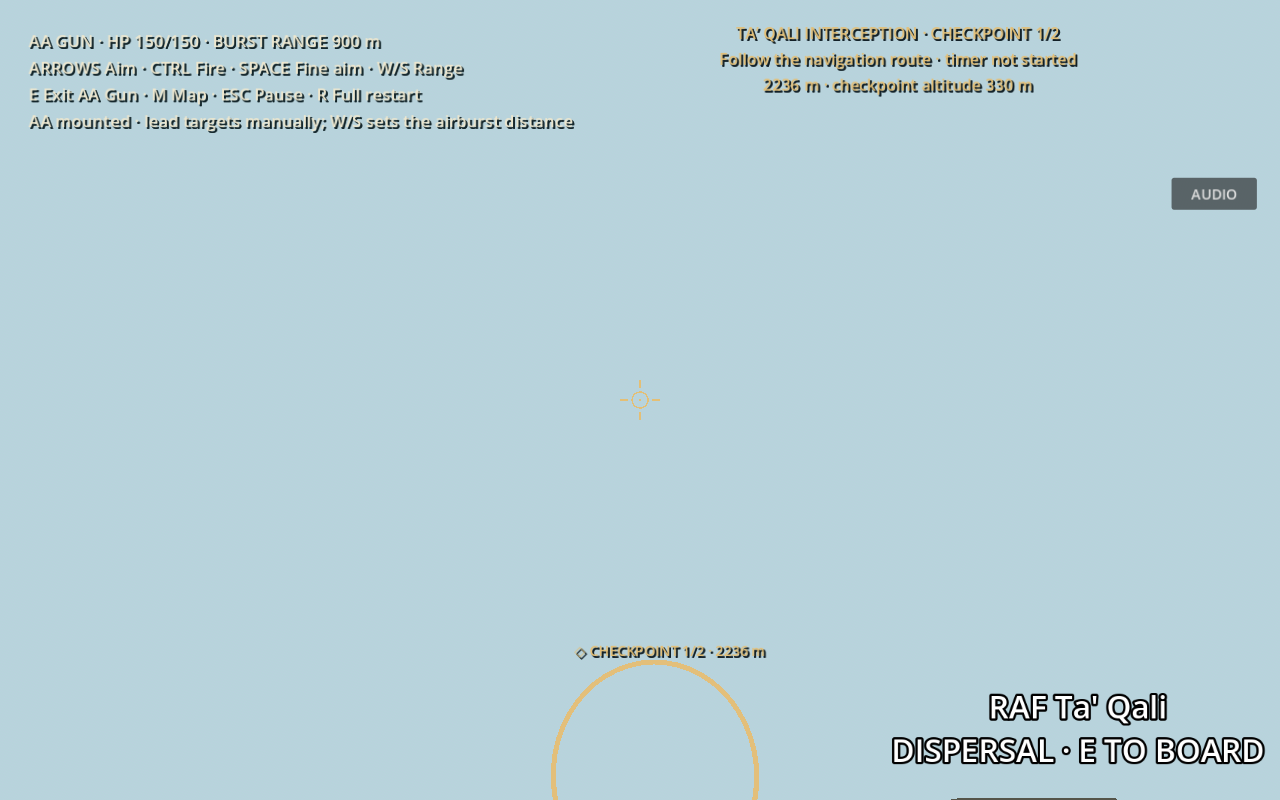
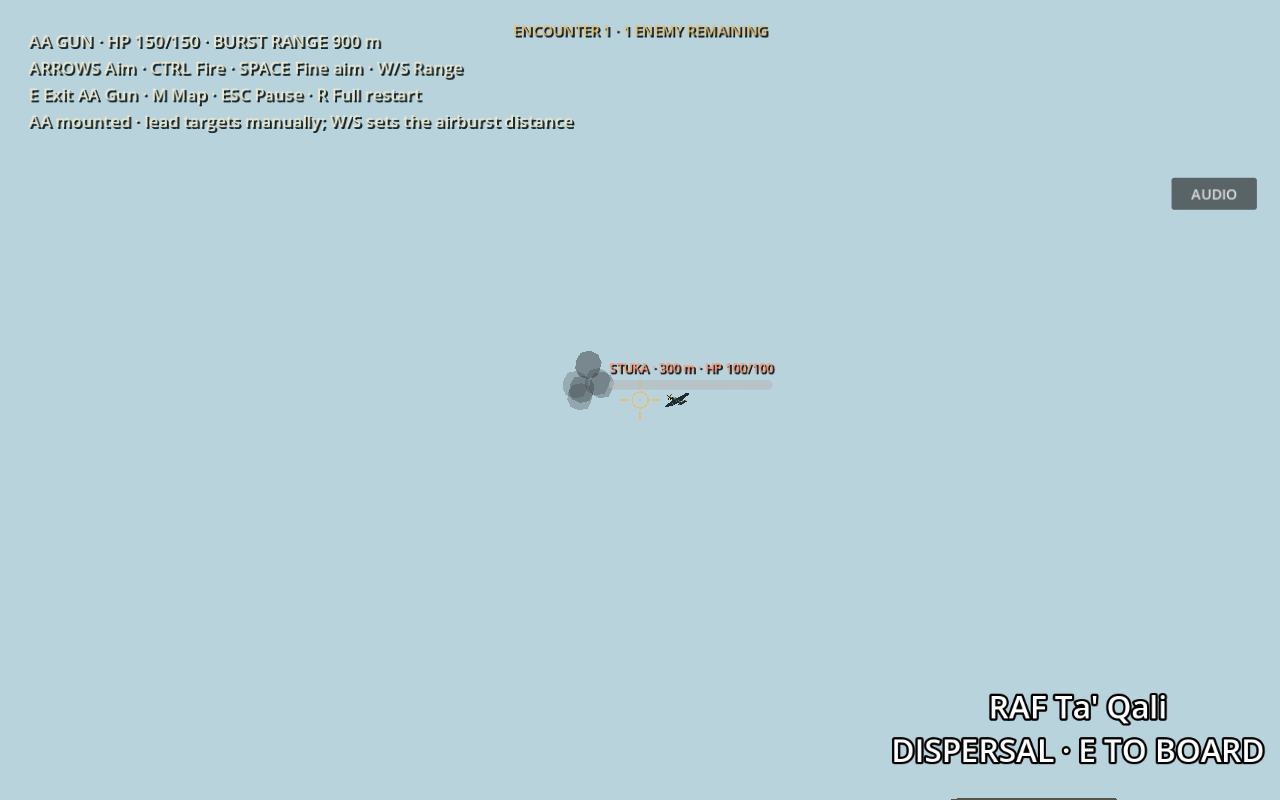
fix(aa): retain enemy tags and add larger bursts with cannon reports

diff --git a/tools/build_aa_sound.py b/tools/build_aa_sound.py
@@ -1,0 +1,28 @@
+"""Original cannon-like single-shot effect; illustrative sound, not a historical recording."""
+from pathlib import Path
+import numpy as np
+import wave,subprocess,tempfile
+rate=44100
+t=np.arange(round(.43*rate))/rate
+rng=np.random.default_rng(1940)
+noise=rng.normal(0,1,len(t))
+low=np.convolve(noise,np.ones(25)/25,mode='same')
+phase=np.cumsum(55+90*np.exp(-t/0.025))*2*np.pi/rate
+attack=1-np.exp(-t/.0007)
+body=.65*np.sin(phase)*np.exp(-t/.105)
+crack=.26*noise*np.exp(-t/.014)
+rumble=.8*low*np.exp(-t/.12)
+signal=attack*(body+crack+rumble)
+for delay,gain in [(.058,.14),(.11,.07)]:
+ offset=int(delay*rate)
+ signal[offset:]+=signal[:-offset]*gain
+signal*=np.minimum(1,(.43-t)/.035).clip(0,1)
+signal=signal/max(abs(signal))*.85
+output=Path(__file__).resolve().parent.parent/'assets/audio/aa_cannon_shot.ogg'
+with tempfile.TemporaryDirectory() as folder:
+ pcm=Path(folder)/'shot.wav'
+ with wave.open(str(pcm),'wb') as wav:
+  wav.setnchannels(1);wav.setsampwidth(2);wav.setframerate(rate)
+  wav.writeframes((signal*32767).astype('<i2').tobytes())
+ subprocess.run(['ffmpeg','-hide_banner','-loglevel','error','-y','-i',str(pcm),'-c:a','libvorbis','-q:a','5',str(output)],check=True)
+print('Generated non-looping 0.43-second cannon shot:',output)

diff --git a/docs/airfield-aa.md b/docs/airfield-aa.md
@@ -34,13 +34,13 @@ The supplied photograph was inspected. The original mesh model takes its rounded
 ## Architecture and tuning
 
 - `airfield_interaction.gd`: one ground interaction owner; exclusive walking/truck/gun/aircraft transitions, prompts, safe exits, destruction and mission-end handling. Gun mounting range 6 m; truck entry range 4.5 m. No transition recreates the battle or aircraft state.
-- `british_aa_gun.gd`: 150 HP, 45°/s traverse, 30°/s elevation, 5–85° elevation limits, 0.35° dispersion; 700 m/s shells, 1.4 shots/sec, 22 direct damage. Range setting defaults to 900 m, adjustable 100–2,400 m; shell maximum lifetime 4 s. Space uses 18% of ordinary aiming speed.
+- `british_aa_gun.gd`: 150 HP, 45°/s traverse, 30°/s elevation, 5–85° elevation limits, 0.35° dispersion; 700 m/s shells, 2 shots/sec, 22 direct damage. Range setting defaults to 900 m, adjustable 100–2,400 m; shell maximum lifetime 4 s. Space uses 18% of ordinary aiming speed.
 - `airfield_aa_battery.gd`: exactly six guns, one world-owned 96-shell pool; 12 m burst radius, 8 maximum blast damage with linear falloff.
 - `military_truck.gd`: 12 m/s forward, 4 m/s reverse, 4 m/s² acceleration, 16 m/s² braking; configurable wheelbase and floor-snap handling.
 - `military_truck_model.gd`: original reusable procedural vehicle geometry, separate from driving controls; the RAF pilot asset supplies its seated driver.
 - `flak_effect_pool.gd`: 192 reusable CPU effect particles. Shells and effects are world-owned; retry removes old objects and restores fresh guns/trucks exactly once.
 
-Shared swept-projectile hit detection, factions, localized aircraft component damage, critical hits, smoke/fire, recoil, muzzle flashes, positional gun sound, aerial bursts, ground dust and sea splashes remain in use. A direct victim is excluded from the same shell's blast damage. Airbursts are a configurable gameplay abstraction, not exact historical Bofors ammunition. The gun sound still reuses a pitched existing aircraft gun recording as a placeholder. The truck has no dedicated engine recording, fuel or combat-damage model in this milestone.
+Shared swept-projectile hit detection, factions, localized aircraft component damage, critical hits, smoke/fire, recoil, muzzle flashes, positional gun sound, aerial bursts, ground dust and sea splashes remain in use. A direct victim is excluded from the same shell's blast damage. Airbursts are a configurable gameplay abstraction, not exact historical Bofors ammunition. The gun uses a dedicated original 0.43-second cannon effect, with a sharp initial crack and low-frequency boom/rumble. Each shot plays separately at two shots/sec. This is illustrative sound design, not a historical recording. Enemy name/distance tags remain available when the flight HUD is hidden for AA operation; nearby HP and behind-camera edge cues use the active sight camera. Aerial burst visuals use a configurable 4× scale, while the 12 m damage radius and damage values remain unchanged. The truck has no dedicated engine recording, fuel or combat-damage model in this milestone.
 
 ## Verification and limits
 
